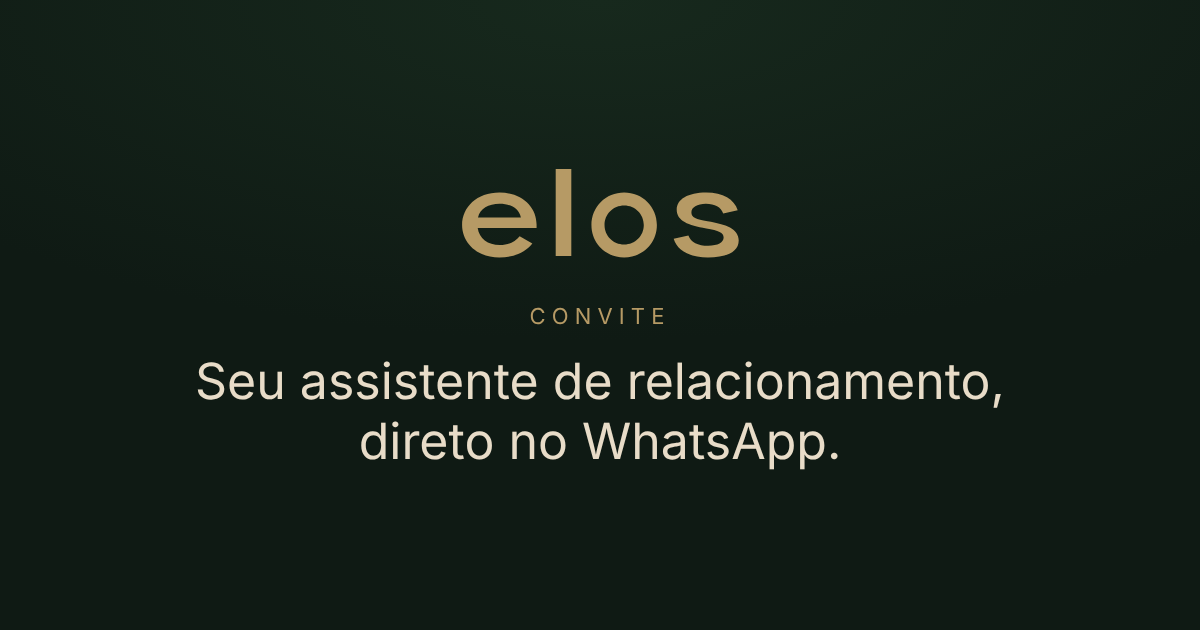
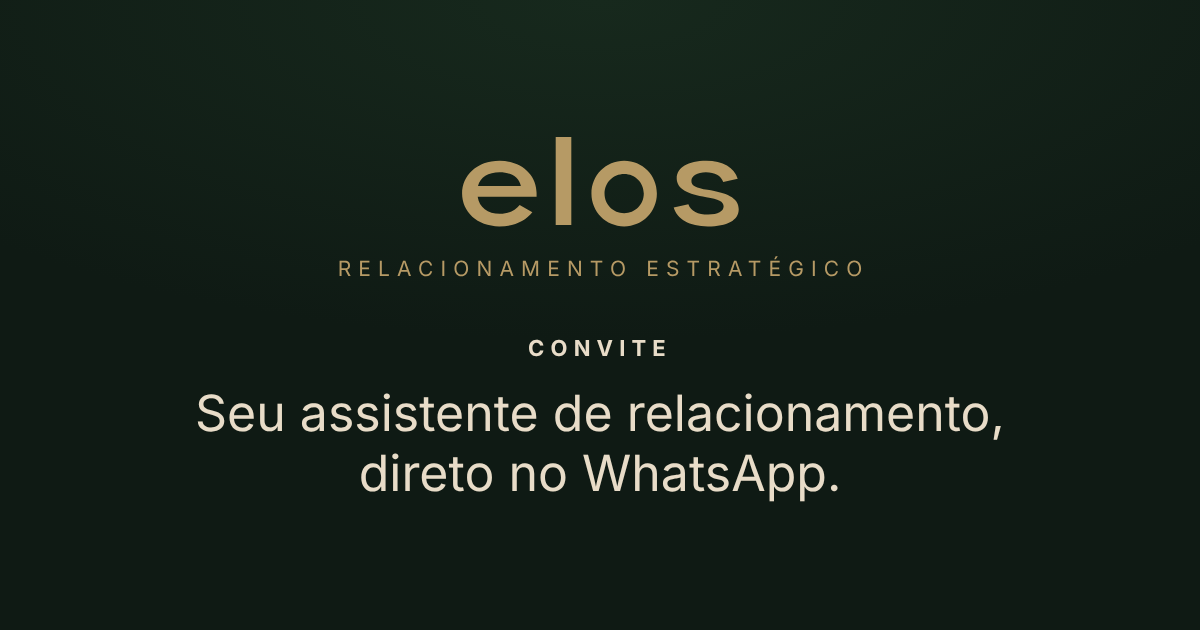
style: convite com relacionamento estrategico e CONVITE em negrito
Claude-Session: https://claude.ai/code/session_01E2ama6QqsiVgArAWrW2ehQ

Changed region(s): [[0.1542, 0.5429, 0.8325, 0.7841], [0.2775, 0.2111, 0.7092, 0.4524], [0.4317, 0.4825, 0.555, 0.5127]]

diff --git a/public/useelos/index.html b/public/useelos/index.html
@@ -27,8 +27,10 @@
     padding: 24px 20px; -webkit-font-smoothing: antialiased;
   }
   main { width: 100%; max-width: 420px; text-align: center; }
-  .mark { width: 150px; height: auto; margin: 0 auto 28px; display: block; }
-  .tag { font-size: 12px; letter-spacing: .22em; text-transform: uppercase; color: var(--accent); margin: 0 0 18px; }
+  .mark { width: 150px; height: auto; margin: 0 auto 14px; display: block; }
+  .brand { font-size: 11.5px; letter-spacing: .32em; text-transform: uppercase; color: var(--accent); margin: 0 0 40px; padding-left: .32em; }
+  .tag { display: flex; align-items: center; justify-content: center; gap: 14px; margin: 0 0 20px; font-size: 13px; font-weight: 700; letter-spacing: .26em; text-transform: uppercase; color: var(--text); }
+  .tag::before, .tag::after { content: ""; width: 28px; height: 1px; background: var(--accent); opacity: .7; }
   h1 { font-size: 28px; line-height: 1.2; font-weight: 500; margin: 0 0 14px; text-wrap: balance; }
   p.lead { color: var(--muted); font-size: 16px; line-height: 1.55; margin: 0 0 32px; text-wrap: balance; }
   .btn {
@@ -45,6 +47,7 @@
 <body>
 <main>
   <img class="mark" src="/wordmark-brass.svg" alt="elos" />
+  <p class="brand">Relacionamento estratégico</p>
   <p class="tag">Convite</p>
   <h1>Seu assistente de relacionamento, direto no WhatsApp.</h1>
   <p class="lead">Conte com quem você falou, por texto ou áudio. O Elos registra, lembra e organiza para você.</p>
